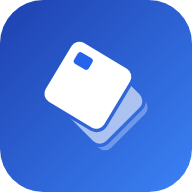
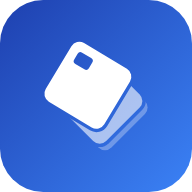
fix(brand): 晶片孔照規範「03 晶片孔」固定尺寸；反白藍底的 App 圖示改挖空
- 小尺寸版不再放大晶片（20×16 → 13×10、距邊 7），favicon 的孔不會過大
- App 圖示／社群頭像的晶片改為挖空透出漸層底；透明底檔維持填 #2563EB
- favicon.svg／App 圖示 ?v= 改 20261007-2（預覽站已快取舊圖）

Claude-Session: https://claude.ai/code/session_01MjFvxwsA4v8WAnSeNvsdoC

Changed region(s): [[0.375, 0.25, 0.5, 0.375]]

diff --git a/tools/build-logo-assets.js b/tools/build-logo-assets.js
@@ -29,14 +29,15 @@ const MARKS_ONLY = process.argv.includes('--marks-only');
 
 // ---- 幾何（規範第 02 節）----
 const FRONT = { cx: 0, cy: 0, w: 52, h: 52, r: 7, rot: 31 };           // 前卡：邊長 52、圓角 7、傾角 31°
-const CHIP = { cx: -12.5, cy: -14, w: 13, h: 10, r: 2.5 };              // 晶片：13×10、圓角 2.5、距前卡邊 7（前卡座標系）
+// 晶片孔（規範「03 晶片孔」）：13×10、圓角 2.5、距前卡上緣與左緣各 7（前卡座標系）。
+// 尺寸、位置、色彩皆固定——小尺寸版也不放大（2026-10-07 站長確認：放大後 favicon 的孔太大）
+const CHIP = { cx: -12.5, cy: -14, w: 13, h: 10, r: 2.5 };
 const MID = { cx: 9, cy: 12, w: 50, h: 50, r: 7, rot: 45 };             // 中層卡：45°、邊長 50
 const BOTTOM = { cx: 13, cy: 17, w: 50, h: 50, r: 7, rot: 45 };         // 底層卡：再往右下錯位 (4, 5)
 const GAP = 2.6;                                                        // 前卡與後方兩層的間隙
 
-// 小尺寸版（規範第 04 節：32px 以下用）——移除底層、加寬間隙、放大晶片
+// 小尺寸版（規範第 04 節：32px 以下用）——移除底層、加寬間隙；晶片同標準版（見 CHIP）
 const SMALL = {
-  chip: { cx: -10, cy: -12, w: 20, h: 16, r: 4 },   // 距前卡邊 6（原 7），面積約原本 2.5 倍
   back: { cx: 10, cy: 13, w: 50, h: 50, r: 7, rot: 45 },
   gap: 5,
 };
@@ -52,7 +53,7 @@ const VARIANTS = {
   // 單色藍／墨色單色：後方兩卡以同色 50%、22% 呈現
   'mono-blue': { front: C.deep, chip: '#FFFFFF', mid: [C.deep, 0.5], bottom: [C.deep, 0.22] },
   'mono-ink': { front: C.ink, chip: C.paper, mid: [C.ink, 0.5], bottom: [C.ink, 0.22] },
-  // 反白・品牌藍底（漸層或純色底）：白卡＋藍晶片
+  // 反白・藍底：晶片孔是挖空、透出背景（cutout 選項）；透明底的檔案看不到背景，晶片填 #2563EB
   reverse: { front: '#FFFFFF', chip: C.chipBlue, mid: ['#FFFFFF', 0.6], bottom: ['#FFFFFF', 0.3] },
   // 反白・深色底（深色模式）
   'reverse-dark': { front: C.paper, chip: C.brand, mid: [C.paper, 0.55], bottom: [C.paper, 0.25] },
@@ -92,11 +93,11 @@ function paint([color, alpha]) {
  * 標誌本體的 SVG 片段（不含 <svg> 外框），座標原點＝前卡中心。
  * idp：id 前綴，同一份文件內放多個標誌時避免 id 撞名。
  */
-function markBody(variant, { small = false, idp = 'pmc' } = {}) {
+function markBody(variant, { small = false, idp = 'pmc', cutout = false } = {}) {
   const v = VARIANTS[variant];
   const backs = small ? [SMALL.back] : [MID, BOTTOM];
   const gap = small ? SMALL.gap : GAP;
-  const chip = small ? SMALL.chip : CHIP;
+  const chip = CHIP;
   const bb = bboxOf([FRONT, ...backs]);
   const pad = 2;
   const area = `x="${n(bb.x - pad)}" y="${n(bb.y - pad)}" width="${n(bb.w + pad * 2)}" height="${n(bb.h + pad * 2)}"`;
@@ -118,7 +119,14 @@ function markBody(variant, { small = false, idp = 'pmc' } = {}) {
   });
   const frontFill = v.front === 'gradient' ? `fill="url(#${idp}-g)"` : `fill="${v.front}"`;
   const f = { ...FRONT, rot: 0 };
-  layers.push(`<g transform="rotate(${FRONT.rot})">${rect(f, frontFill)}${rect(chip, `fill="${v.chip}"`)}</g>`);
+  if (cutout) {
+    // 晶片孔挖空：遮罩掛在未旋轉的外層 g，遮罩內容自己旋轉，避免各瀏覽器對 mask 座標系的解讀差異
+    defs.push(`<mask id="${idp}-c" maskUnits="userSpaceOnUse" ${area}><rect ${area} fill="#fff"/>` +
+      `<g transform="rotate(${FRONT.rot})">${rect(chip, 'fill="#000"')}</g></mask>`);
+    layers.push(`<g mask="url(#${idp}-c)"><g transform="rotate(${FRONT.rot})">${rect(f, frontFill)}</g></g>`);
+  } else {
+    layers.push(`<g transform="rotate(${FRONT.rot})">${rect(f, frontFill)}${rect(chip, `fill="${v.chip}"`)}</g>`);
+  }
   return { svg: `<defs>${defs.join('')}</defs>${layers.join('')}`, bbox: bb };
 }
 
@@ -144,7 +152,8 @@ function markSVG(variant, { small = false, pad = 0, square = false, bg = null, i
  * radius：圓角（佔邊長比例），0＝滿版方形（iOS／maskable 由系統裁圓角）。
  */
 function appIconSVG({ radius = 0 } = {}) {
-  const { svg, bbox } = markBody('reverse', { idp: 'app' });
+  // 背景跟標誌在同一個檔裡 → 晶片孔照規範挖空、透出漸層底
+  const { svg, bbox } = markBody('reverse', { idp: 'app', cutout: true });
   const halfDiag = Math.hypot(bbox.w, bbox.h) / 2;
   const S = halfDiag / 0.39;  // 安全圓半徑 0.4S，留一點餘裕
   const cx = bbox.x + bbox.w / 2, cy = bbox.y + bbox.h / 2;

diff --git a/landing.html b/landing.html
@@ -31,8 +31,8 @@
     <link rel="stylesheet" href="landing.css?v=dev">
 
     <link rel="icon" href="/favicon.ico" sizes="32x32">
-    <link rel="icon" href="assets/images/favicon.svg?v=20261007" type="image/svg+xml">
-    <link rel="apple-touch-icon" href="assets/images/icon-pickmycard-ios.png?v=20261007">
+    <link rel="icon" href="assets/images/favicon.svg?v=20261007-2" type="image/svg+xml">
+    <link rel="apple-touch-icon" href="assets/images/icon-pickmycard-ios.png?v=20261007-2">
 
     <!-- Microsoft Clarity（async 注入，不卡 first paint；比照 index.html）
          landing 過去無追蹤碼＝/landing 在 Clarity 完全不被記錄，補上讓 SEO canonical 頁能被追蹤 -->
@@ -152,7 +152,7 @@
                     </div>
                     <!-- 第二段：品牌畫面 -->
                     <div class="lp-brand fx" data-at="0.70">
-                        <p class="lp-brand-logo"><img src="assets/brand/pmc-mark-small.svg?v=20261007" alt="" class="lp-brand-logo-img">信用卡回饋大師</p>
+                        <p class="lp-brand-logo"><img src="assets/brand/pmc-mark-small.svg?v=20261007-2" alt="" class="lp-brand-logo-img">信用卡回饋大師</p>
                         <h1 class="lp-brand-title"><span class="lp-brand-t1">結帳前，先</span><br><span class="lp-brand-t2">Pick&nbsp;My&nbsp;Card</span></h1>
                         <p class="lp-brand-sub fx" data-at="0.78">搞懂回饋規則，不該是你的功課</p>
                     </div>

diff --git a/index.html b/index.html
@@ -90,8 +90,8 @@
          .ico 給 Safari 與 /favicon.ico 直連，SVG 給新版瀏覽器（分頁 16px 用小尺寸版），
          apple-touch 是品牌藍漸層底＋反白標誌的 App 圖示（iOS 自己裁圓角） -->
     <link rel="icon" href="/favicon.ico" sizes="32x32">
-    <link rel="icon" href="assets/images/favicon.svg?v=20261007" type="image/svg+xml">
-    <link rel="apple-touch-icon" href="assets/images/icon-pickmycard-ios.png?v=20261007">
+    <link rel="icon" href="assets/images/favicon.svg?v=20261007-2" type="image/svg+xml">
+    <link rel="apple-touch-icon" href="assets/images/icon-pickmycard-ios.png?v=20261007-2">
     
     <!-- iOS Web App Settings -->
     <meta name="apple-mobile-web-app-capable" content="yes">

diff --git a/merchant/Apple Pay.html b/merchant/Apple Pay.html
@@ -92,8 +92,8 @@
          .ico 給 Safari 與 /favicon.ico 直連，SVG 給新版瀏覽器（分頁 16px 用小尺寸版），
          apple-touch 是品牌藍漸層底＋反白標誌的 App 圖示（iOS 自己裁圓角） -->
     <link rel="icon" href="/favicon.ico" sizes="32x32">
-    <link rel="icon" href="assets/images/favicon.svg?v=20261007" type="image/svg+xml">
-    <link rel="apple-touch-icon" href="assets/images/icon-pickmycard-ios.png?v=20261007">
+    <link rel="icon" href="assets/images/favicon.svg?v=20261007-2" type="image/svg+xml">
+    <link rel="apple-touch-icon" href="assets/images/icon-pickmycard-ios.png?v=20261007-2">
     
     <!-- iOS Web App Settings -->
     <meta name="apple-mobile-web-app-capable" content="yes">

diff --git a/merchant/linepay.html b/merchant/linepay.html
@@ -92,8 +92,8 @@
          .ico 給 Safari 與 /favicon.ico 直連，SVG 給新版瀏覽器（分頁 16px 用小尺寸版），
          apple-touch 是品牌藍漸層底＋反白標誌的 App 圖示（iOS 自己裁圓角） -->
     <link rel="icon" href="/favicon.ico" sizes="32x32">
-    <link rel="icon" href="assets/images/favicon.svg?v=20261007" type="image/svg+xml">
-    <link rel="apple-touch-icon" href="assets/images/icon-pickmycard-ios.png?v=20261007">
+    <link rel="icon" href="assets/images/favicon.svg?v=20261007-2" type="image/svg+xml">
+    <link rel="apple-touch-icon" href="assets/images/icon-pickmycard-ios.png?v=20261007-2">
     
     <!-- iOS Web App Settings -->
     <meta name="apple-mobile-web-app-capable" content="yes">

diff --git a/merchant/momo.html b/merchant/momo.html
@@ -92,8 +92,8 @@
          .ico 給 Safari 與 /favicon.ico 直連，SVG 給新版瀏覽器（分頁 16px 用小尺寸版），
          apple-touch 是品牌藍漸層底＋反白標誌的 App 圖示（iOS 自己裁圓角） -->
     <link rel="icon" href="/favicon.ico" sizes="32x32">
-    <link rel="icon" href="assets/images/favicon.svg?v=20261007" type="image/svg+xml">
-    <link rel="apple-touch-icon" href="assets/images/icon-pickmycard-ios.png?v=20261007">
+    <link rel="icon" href="assets/images/favicon.svg?v=20261007-2" type="image/svg+xml">
+    <link rel="apple-touch-icon" href="assets/images/icon-pickmycard-ios.png?v=20261007-2">
     
     <!-- iOS Web App Settings -->
     <meta name="apple-mobile-web-app-capable" content="yes">

diff --git a/merchant/中油.html b/merchant/中油.html
@@ -92,8 +92,8 @@
          .ico 給 Safari 與 /favicon.ico 直連，SVG 給新版瀏覽器（分頁 16px 用小尺寸版），
          apple-touch 是品牌藍漸層底＋反白標誌的 App 圖示（iOS 自己裁圓角） -->
     <link rel="icon" href="/favicon.ico" sizes="32x32">
-    <link rel="icon" href="assets/images/favicon.svg?v=20261007" type="image/svg+xml">
-    <link rel="apple-touch-icon" href="assets/images/icon-pickmycard-ios.png?v=20261007">
+    <link rel="icon" href="assets/images/favicon.svg?v=20261007-2" type="image/svg+xml">
+    <link rel="apple-touch-icon" href="assets/images/icon-pickmycard-ios.png?v=20261007-2">
     
     <!-- iOS Web App Settings -->
     <meta name="apple-mobile-web-app-capable" content="yes">

diff --git a/merchant/中華航空.html b/merchant/中華航空.html
@@ -92,8 +92,8 @@
          .ico 給 Safari 與 /favicon.ico 直連，SVG 給新版瀏覽器（分頁 16px 用小尺寸版），
          apple-touch 是品牌藍漸層底＋反白標誌的 App 圖示（iOS 自己裁圓角） -->
     <link rel="icon" href="/favicon.ico" sizes="32x32">
-    <link rel="icon" href="assets/images/favicon.svg?v=20261007" type="image/svg+xml">
-    <link rel="apple-touch-icon" href="assets/images/icon-pickmycard-ios.png?v=20261007">
+    <link rel="icon" href="assets/images/favicon.svg?v=20261007-2" type="image/svg+xml">
+    <link rel="apple-touch-icon" href="assets/images/icon-pickmycard-ios.png?v=20261007-2">
     
     <!-- iOS Web App Settings -->
     <meta name="apple-mobile-web-app-capable" content="yes">

diff --git a/merchant/所有計程車.html b/merchant/所有計程車.html
@@ -92,8 +92,8 @@
          .ico 給 Safari 與 /favicon.ico 直連，SVG 給新版瀏覽器（分頁 16px 用小尺寸版），
          apple-touch 是品牌藍漸層底＋反白標誌的 App 圖示（iOS 自己裁圓角） -->
     <link rel="icon" href="/favicon.ico" sizes="32x32">
-    <link rel="icon" href="assets/images/favicon.svg?v=20261007" type="image/svg+xml">
-    <link rel="apple-touch-icon" href="assets/images/icon-pickmycard-ios.png?v=20261007">
+    <link rel="icon" href="assets/images/favicon.svg?v=20261007-2" type="image/svg+xml">
+    <link rel="apple-touch-icon" href="assets/images/icon-pickmycard-ios.png?v=20261007-2">
     
     <!-- iOS Web App Settings -->
     <meta name="apple-mobile-web-app-capable" content="yes">

diff --git a/merchant/蝦皮.html b/merchant/蝦皮.html
@@ -95,8 +95,8 @@
          .ico 給 Safari 與 /favicon.ico 直連，SVG 給新版瀏覽器（分頁 16px 用小尺寸版），
          apple-touch 是品牌藍漸層底＋反白標誌的 App 圖示（iOS 自己裁圓角） -->
     <link rel="icon" href="/favicon.ico" sizes="32x32">
-    <link rel="icon" href="assets/images/favicon.svg?v=20261007" type="image/svg+xml">
-    <link rel="apple-touch-icon" href="assets/images/icon-pickmycard-ios.png?v=20261007">
+    <link rel="icon" href="assets/images/favicon.svg?v=20261007-2" type="image/svg+xml">
+    <link rel="apple-touch-icon" href="assets/images/icon-pickmycard-ios.png?v=20261007-2">
     
     <!-- iOS Web App Settings -->
     <meta name="apple-mobile-web-app-capable" content="yes">

diff --git a/merchant/遠大售票.html b/merchant/遠大售票.html
@@ -92,8 +92,8 @@
          .ico 給 Safari 與 /favicon.ico 直連，SVG 給新版瀏覽器（分頁 16px 用小尺寸版），
          apple-touch 是品牌藍漸層底＋反白標誌的 App 圖示（iOS 自己裁圓角） -->
     <link rel="icon" href="/favicon.ico" sizes="32x32">
-    <link rel="icon" href="assets/images/favicon.svg?v=20261007" type="image/svg+xml">
-    <link rel="apple-touch-icon" href="assets/images/icon-pickmycard-ios.png?v=20261007">
+    <link rel="icon" href="assets/images/favicon.svg?v=20261007-2" type="image/svg+xml">
+    <link rel="apple-touch-icon" href="assets/images/icon-pickmycard-ios.png?v=20261007-2">
     
     <!-- iOS Web App Settings -->
     <meta name="apple-mobile-web-app-capable" content="yes">

diff --git a/merchant/高鐵.html b/merchant/高鐵.html
@@ -92,8 +92,8 @@
          .ico 給 Safari 與 /favicon.ico 直連，SVG 給新版瀏覽器（分頁 16px 用小尺寸版），
          apple-touch 是品牌藍漸層底＋反白標誌的 App 圖示（iOS 自己裁圓角） -->
     <link rel="icon" href="/favicon.ico" sizes="32x32">
-    <link rel="icon" href="assets/images/favicon.svg?v=20261007" type="image/svg+xml">
-    <link rel="apple-touch-icon" href="assets/images/icon-pickmycard-ios.png?v=20261007">
+    <link rel="icon" href="assets/images/favicon.svg?v=20261007-2" type="image/svg+xml">
+    <link rel="apple-touch-icon" href="assets/images/icon-pickmycard-ios.png?v=20261007-2">
     
     <!-- iOS Web App Settings -->
     <meta name="apple-mobile-web-app-capable" content="yes">
